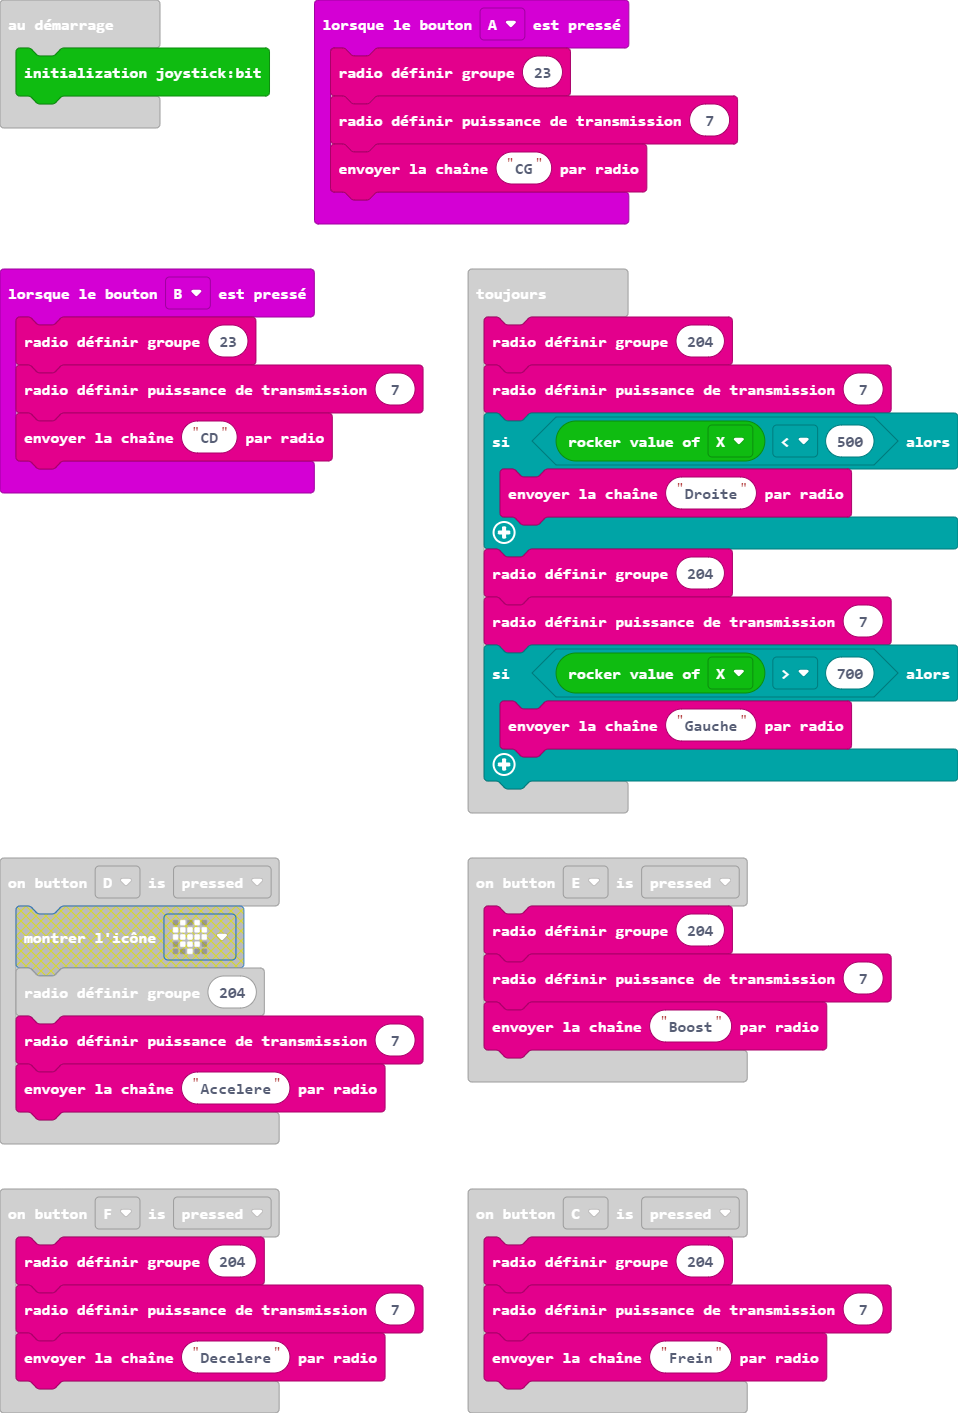
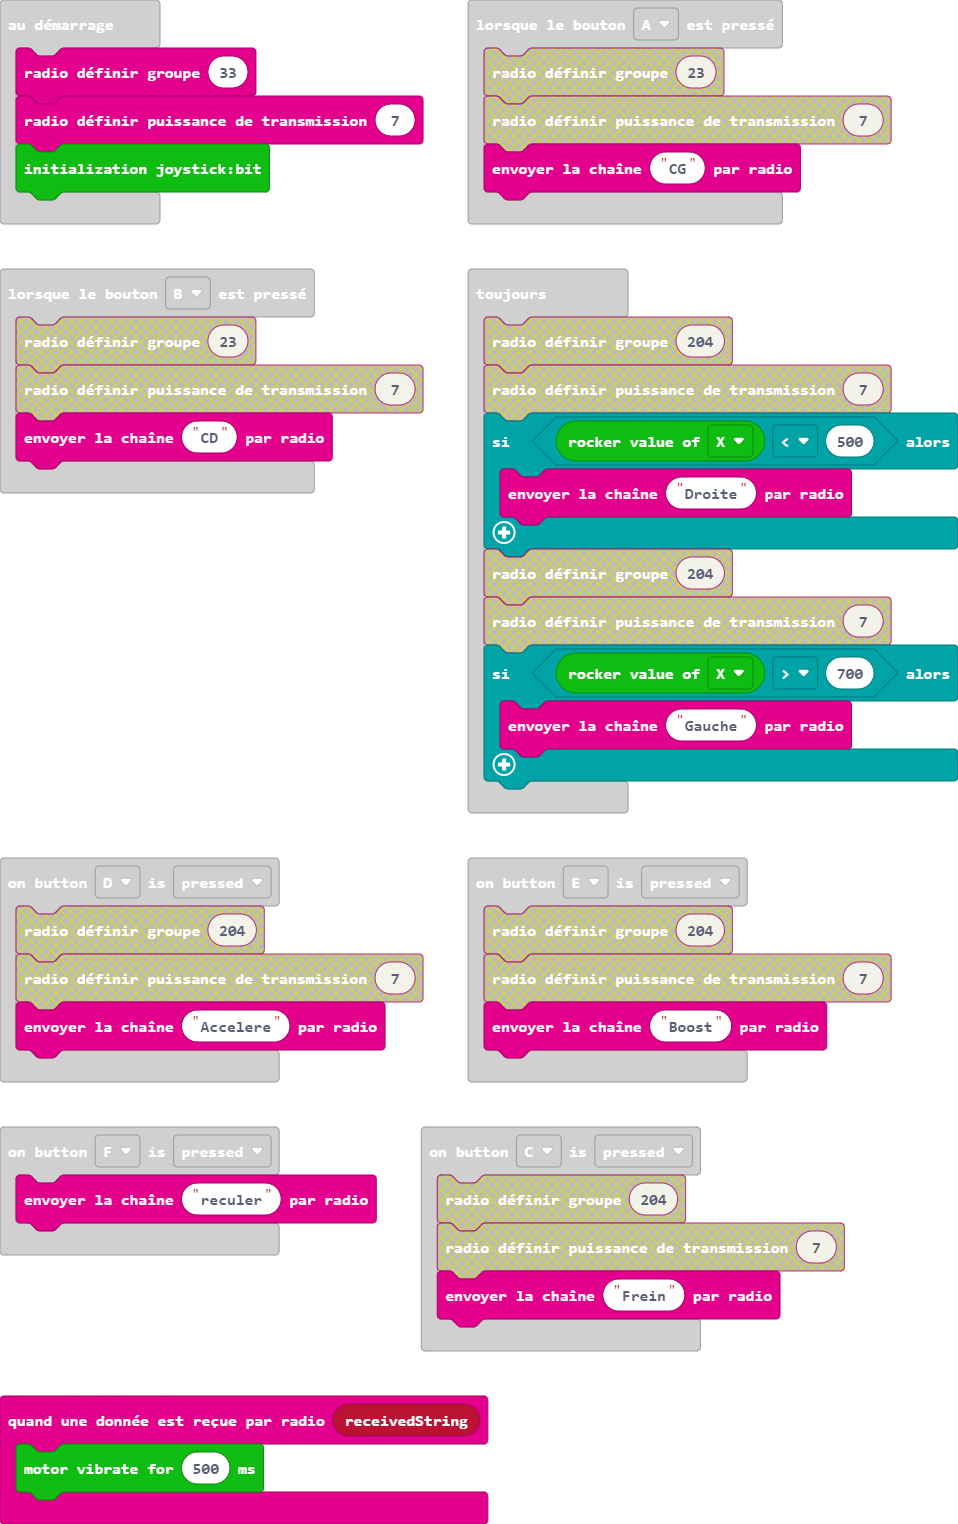
Mise à jour main.blocks, main.ts

diff --git a/main.ts b/main.ts
@@ -1,42 +1,31 @@
 joystickbit.onButtonEvent(joystickbit.JoystickBitPin.P14, joystickbit.ButtonType.down, function () {
-    radio.setGroup(204)
-    radio.setTransmitPower(7)
     radio.sendString("Boost")
 })
 input.onButtonPressed(Button.A, function () {
-    radio.setGroup(23)
-    radio.setTransmitPower(7)
     radio.sendString("CG")
 })
 joystickbit.onButtonEvent(joystickbit.JoystickBitPin.P15, joystickbit.ButtonType.down, function () {
-    radio.setGroup(204)
-    radio.setTransmitPower(7)
-    radio.sendString("Decelere")
+    radio.sendString("reculer")
+})
+radio.onReceivedString(function (receivedString) {
+    joystickbit.Vibration_Motor(500)
 })
 input.onButtonPressed(Button.B, function () {
-    radio.setGroup(23)
-    radio.setTransmitPower(7)
     radio.sendString("CD")
 })
 joystickbit.onButtonEvent(joystickbit.JoystickBitPin.P13, joystickbit.ButtonType.down, function () {
-    radio.setGroup(204)
-    radio.setTransmitPower(7)
     radio.sendString("Accelere")
 })
 joystickbit.onButtonEvent(joystickbit.JoystickBitPin.P12, joystickbit.ButtonType.down, function () {
-    radio.setGroup(204)
-    radio.setTransmitPower(7)
     radio.sendString("Frein")
 })
+radio.setGroup(33)
+radio.setTransmitPower(7)
 joystickbit.initJoystickBit()
 basic.forever(function () {
-    radio.setGroup(204)
-    radio.setTransmitPower(7)
     if (joystickbit.getRockerValue(joystickbit.rockerType.X) < 500) {
         radio.sendString("Droite")
     }
-    radio.setGroup(204)
-    radio.setTransmitPower(7)
     if (joystickbit.getRockerValue(joystickbit.rockerType.X) > 700) {
         radio.sendString("Gauche")
     }
